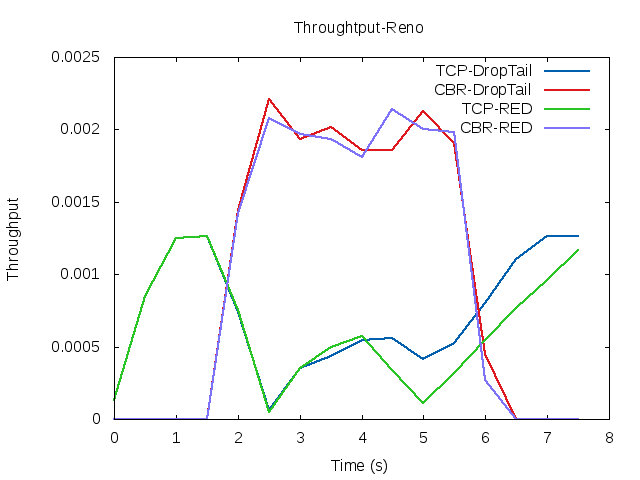
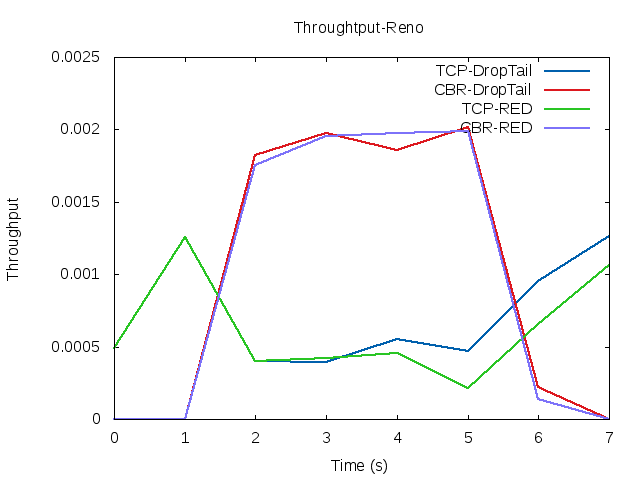
pic

diff --git a/run.py b/run.py
@@ -45,7 +45,7 @@ def main():
             os.system('ns part2-1.ns ' + tcp_type + ' ' + queue_type)
             time.sleep(4)
             print 'finished'
-            calThroughput(tcp_type, queue_type, 0.5)
+            calThroughput(tcp_type, queue_type, 1)
     
 if __name__ == '__main__':
     main()
